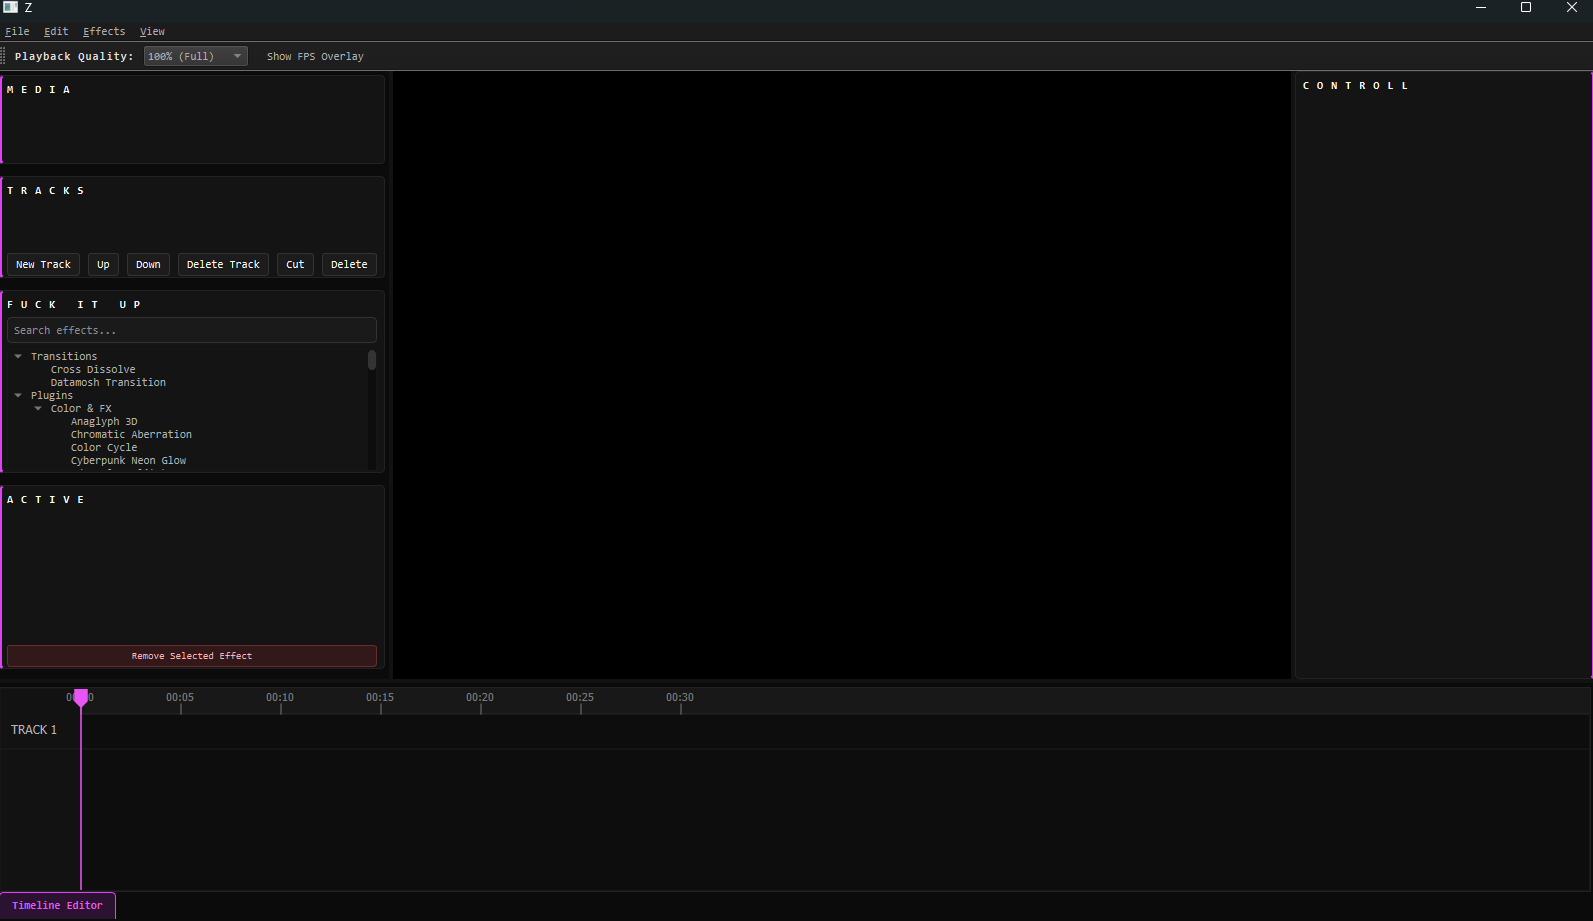
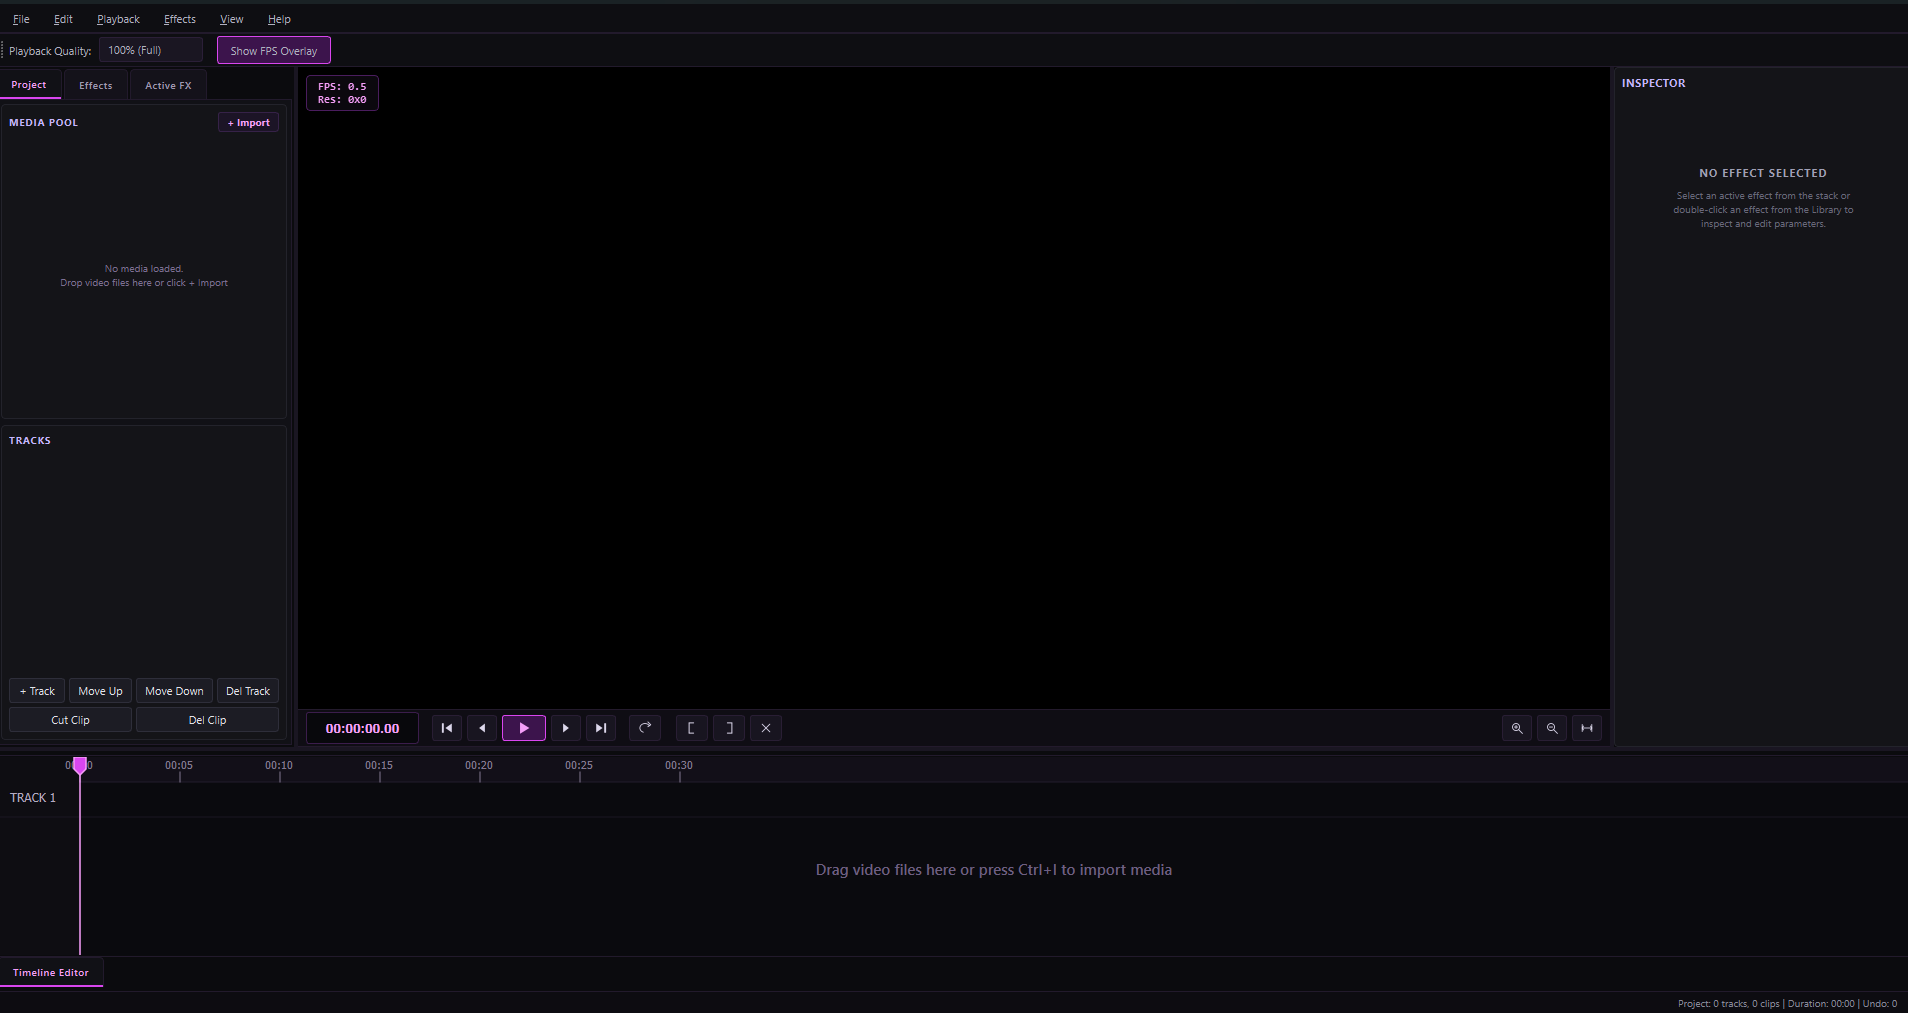
Minor ui fixes, update docs

diff --git a/src/ui/mainwindow.cpp b/src/ui/mainwindow.cpp
@@ -44,7 +44,7 @@
 #include "core/shortcutmanager.h"
 #include "ui/vector_icons.h"
 #include "media/mediaimporter.h" 
-
+#include <iostream>
 namespace {
 template <typename Fn>
 auto runWithLoader(QWidget* parent, const QString& label, Fn&& fn) {
@@ -73,7 +73,7 @@ auto runWithLoader(QWidget* parent, const QString& label, Fn&& fn) {
 }
 
 MainWindow::MainWindow(QWidget* parent) : QMainWindow(parent) {
-    setWindowTitle("Z - Creative Video Engine");
+    setWindowTitle("Z");
     setStyleSheet(R"(
         * {
             font-family: 'Segoe UI', 'JetBrains Mono', 'Consolas', monospace;
@@ -514,9 +514,9 @@ void MainWindow::createMenus() {
     QMenu* helpMenu = menuBar()->addMenu("&Help");
     helpMenu->addAction("&About Z...", this, [this]() {
         QMessageBox::about(this, "About Z",
-            "<h2>Z - Creative Video Engine</h2>"
+            "<h2>Z - A Video Editor</h2>"
             "<p><b>Version 1.0.0</b></p>"
-            "<p>High-performance creative desktop editor for datamoshing, GLSL shaders, and experimental video art.</p>"
+            "<p>Made for experimental video art.</p>"
             "<p>Website: <a href='https://z.codezey.dev'>https://z.codezey.dev</a></p>"
         );
     });
@@ -735,15 +735,14 @@ void MainWindow::cutClipAtPlayhead() {
     const double fps = std::max(1.0, VideoEngine::instance().getFps(clip->id));
     const double relTime = std::max(0.0, currentPlayhead - clip->timelineStart);
     const int totalFrames = std::max(2, static_cast<int>(std::round(clip->sourceDuration * fps)));
-    
-    // Exact frame boundary: the frame currently displayed on screen becomes the start of the right clip
-    int cutFrame = static_cast<int>(std::floor((relTime + 1e-5) * fps));
+    std::cout << "Cutting clip at time: " << relTime << " seconds, fps: " << fps << ", totalFrames: " << totalFrames << std::endl;
+    int cutFrame = static_cast<int>(std::floor((relTime + 1e-5) * fps)); // 1e-5 (0.00001) 
     cutFrame = std::clamp(cutFrame, 1, totalFrames - 1);
-
+    std::cout << "Cut frame: " << cutFrame << std::endl;
     const double leftDuration = static_cast<double>(cutFrame) / fps;
     const double cutTime = clip->timelineStart + leftDuration;
     const double rightDuration = clip->sourceDuration - leftDuration;
-
+    std::cout << "Left duration: " << leftDuration << ", right duration: " << rightDuration << std::endl;
     if (leftDuration <= 0.001 || rightDuration <= 0.001) {
         if (wasPlaying) togglePlayback();
         return;

diff --git a/README.md b/README.md
@@ -1,21 +1,11 @@
-# Z — Creative Video Engine & Glitch Synthesizer
+# Z — A Video Editor
 
 ![C++20](https://img.shields.io/badge/C%2B%2B-20-blue.svg)
 ![Qt6](https://img.shields.io/badge/Qt-6.0%2B-green.svg)
 ![OpenGL](https://img.shields.io/badge/OpenGL-3.3%20Core-orange.svg)
 ![Build](https://img.shields.io/badge/build-passing-brightgreen.svg)
 
-**Z** is a high-performance, native desktop video editing workstation and experimental graphics synthesizer designed for datamoshing, GLSL shader synthesis, optical flow smearing, and creative video manipulation.
-
----
-
-## Key Capabilities
-
-- **Real-Time GPU Synthesizer**: Multi-pass OpenGL 3.3 Core Profile rendering pipeline with ping-pong FBO feedback loops for temporal recursion, color warping, and circuit-bent artifacts.
-- **Dynamic GLSL Plugin Engine**: Hot-reloadable runtime plugin architecture. Drop `.glsl` shaders and `.json` parameter manifests into `plugins/` to instantly reflect controls and keyframing in the Inspector.
-- **Hardware-Accelerated Timeline**: Multi-track non-linear editor with cubic Hermite keyframe curves, sub-frame scrubbing, ripple trimming, snap magnetism, and in-place transitions.
-- **Audio Synchronization**: Low-latency PortAudio engine with master timecode alignment and live audio energy analysis (`u_audio_low`, `u_audio_mid`, `u_audio_high`).
-- **Professional Export Suite**: Multi-threaded FFmpeg rendering pipeline supporting custom resolutions (Source, 1080p, 4K, 720p), framerates, CRF compression presets, and range exports.
+**Z** is a video editor.. 
 
 ---
 
@@ -84,6 +74,4 @@ ctest --test-dir build --output-on-failure
 
 ---
 
-## License & Community
-Built for digital artists, datamoshers, and video creators. Open source under the MIT License.
 Website: [https://z.codezey.dev](https://z.codezey.dev)
